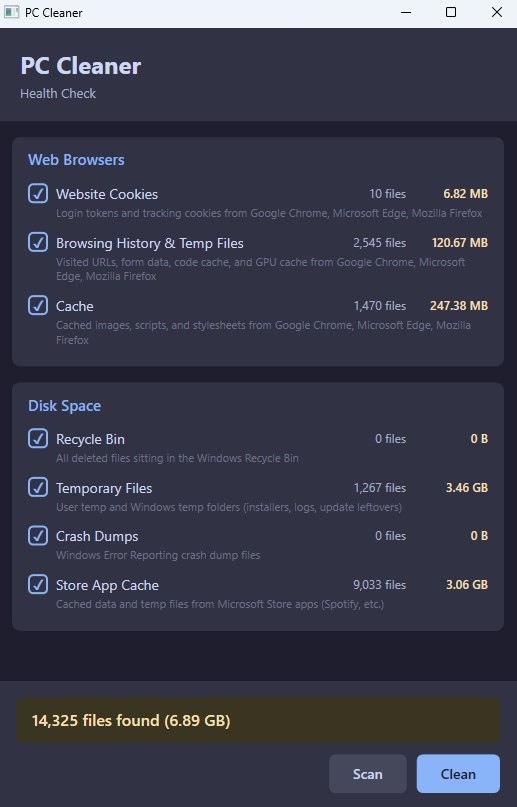
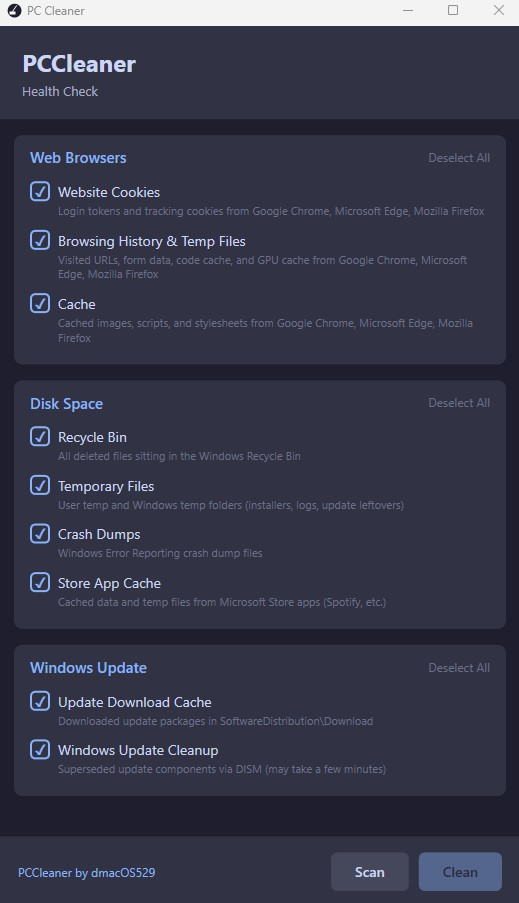
update height and screenshot

diff --git a/src/PCCleaner/Views/MainWindow.xaml b/src/PCCleaner/Views/MainWindow.xaml
@@ -3,7 +3,7 @@
         xmlns:x="http://schemas.microsoft.com/winfx/2006/xaml"
         xmlns:converters="clr-namespace:PCCleaner.Views.Converters"
         Title="PC Cleaner"
-        Height="820" Width="540"
+        Height="920" Width="540"
         MinHeight="500" MinWidth="420"
         WindowStartupLocation="CenterScreen"
         Background="{StaticResource BackgroundBrush}">
